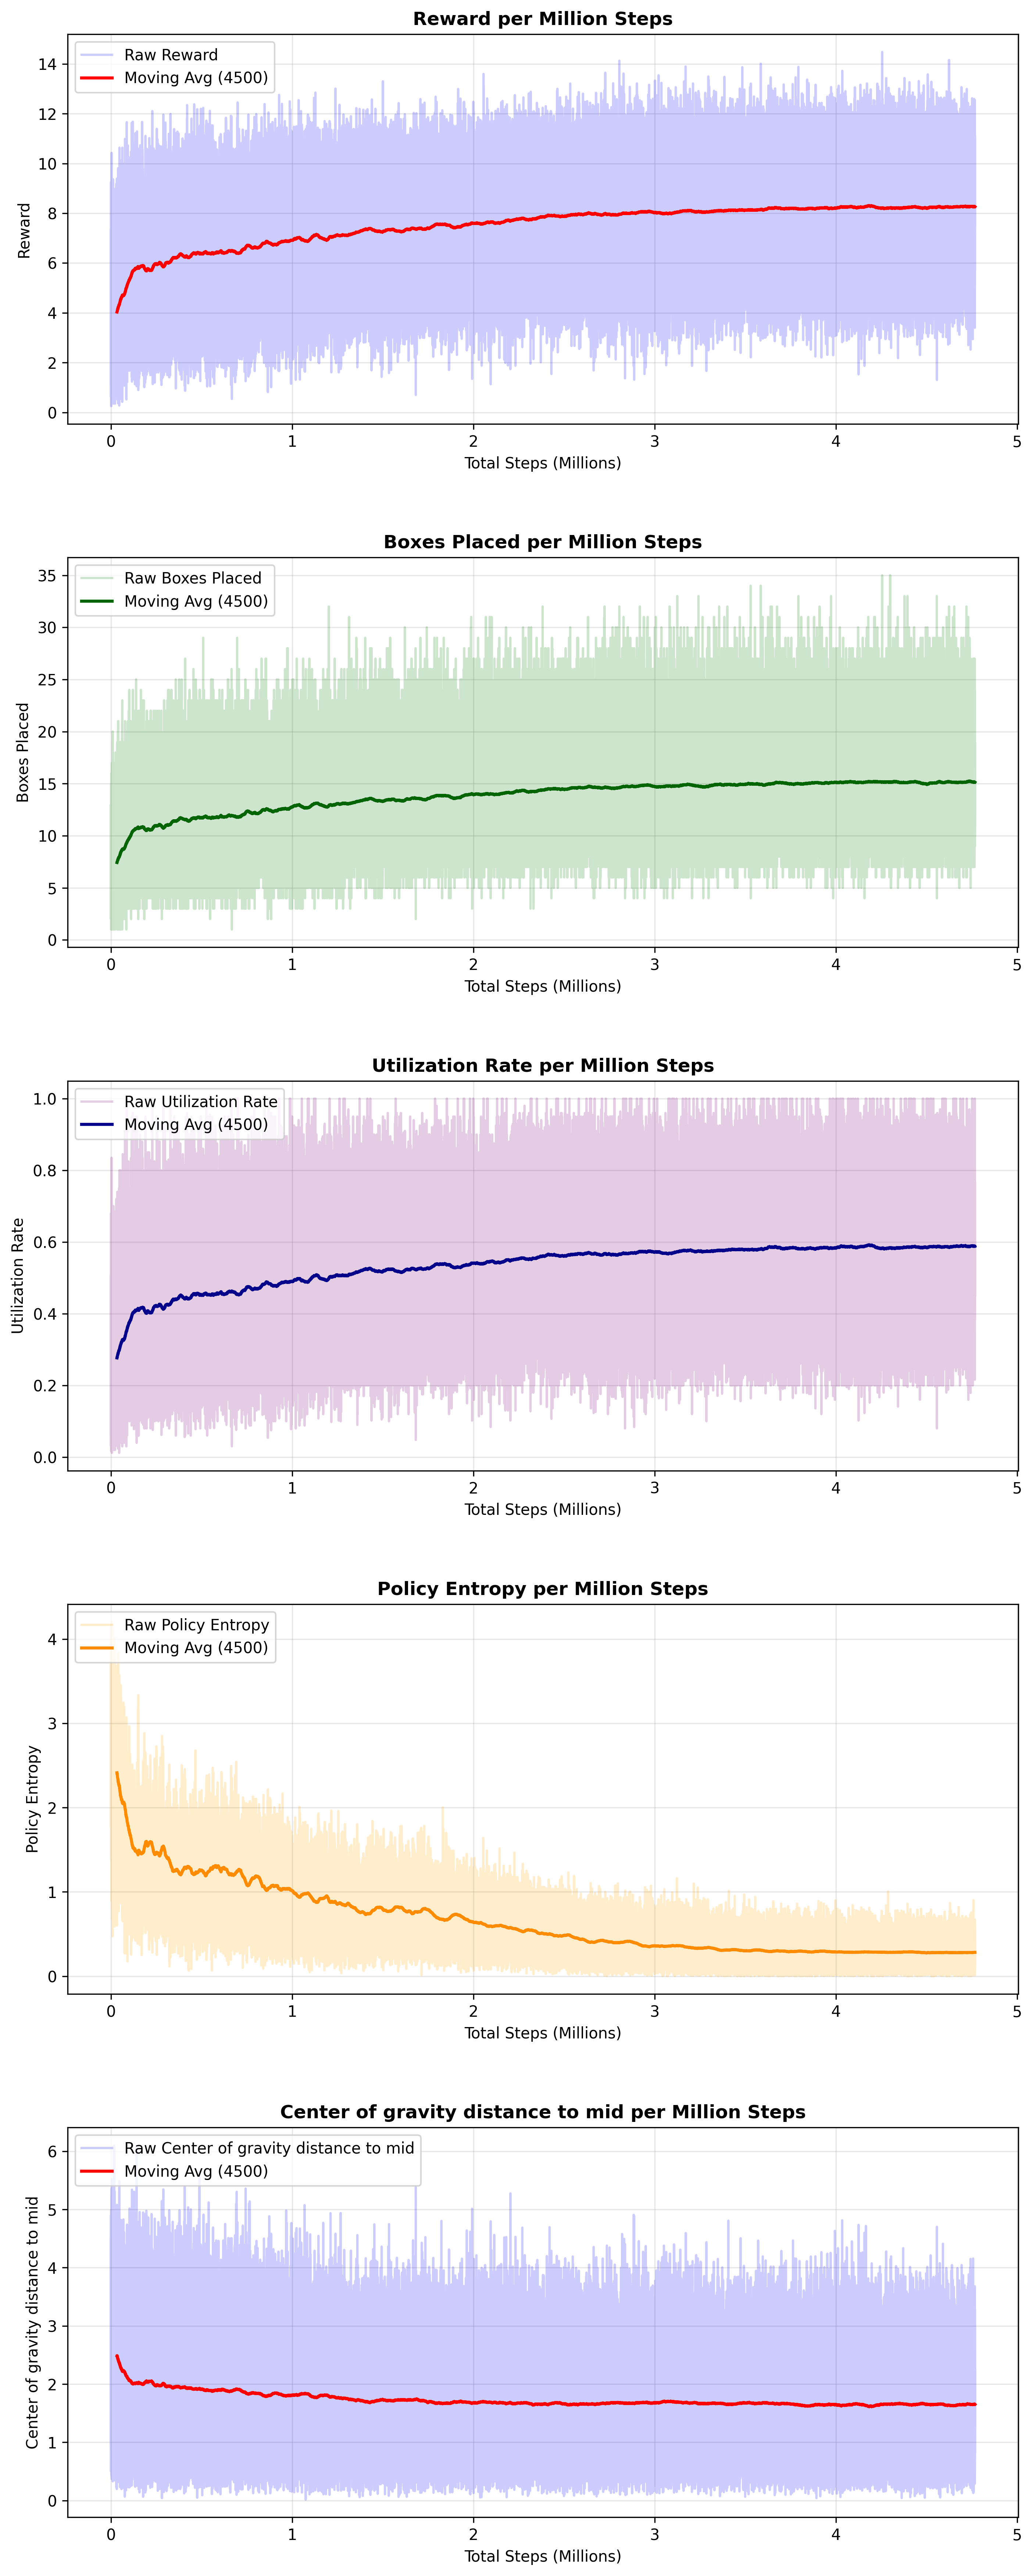
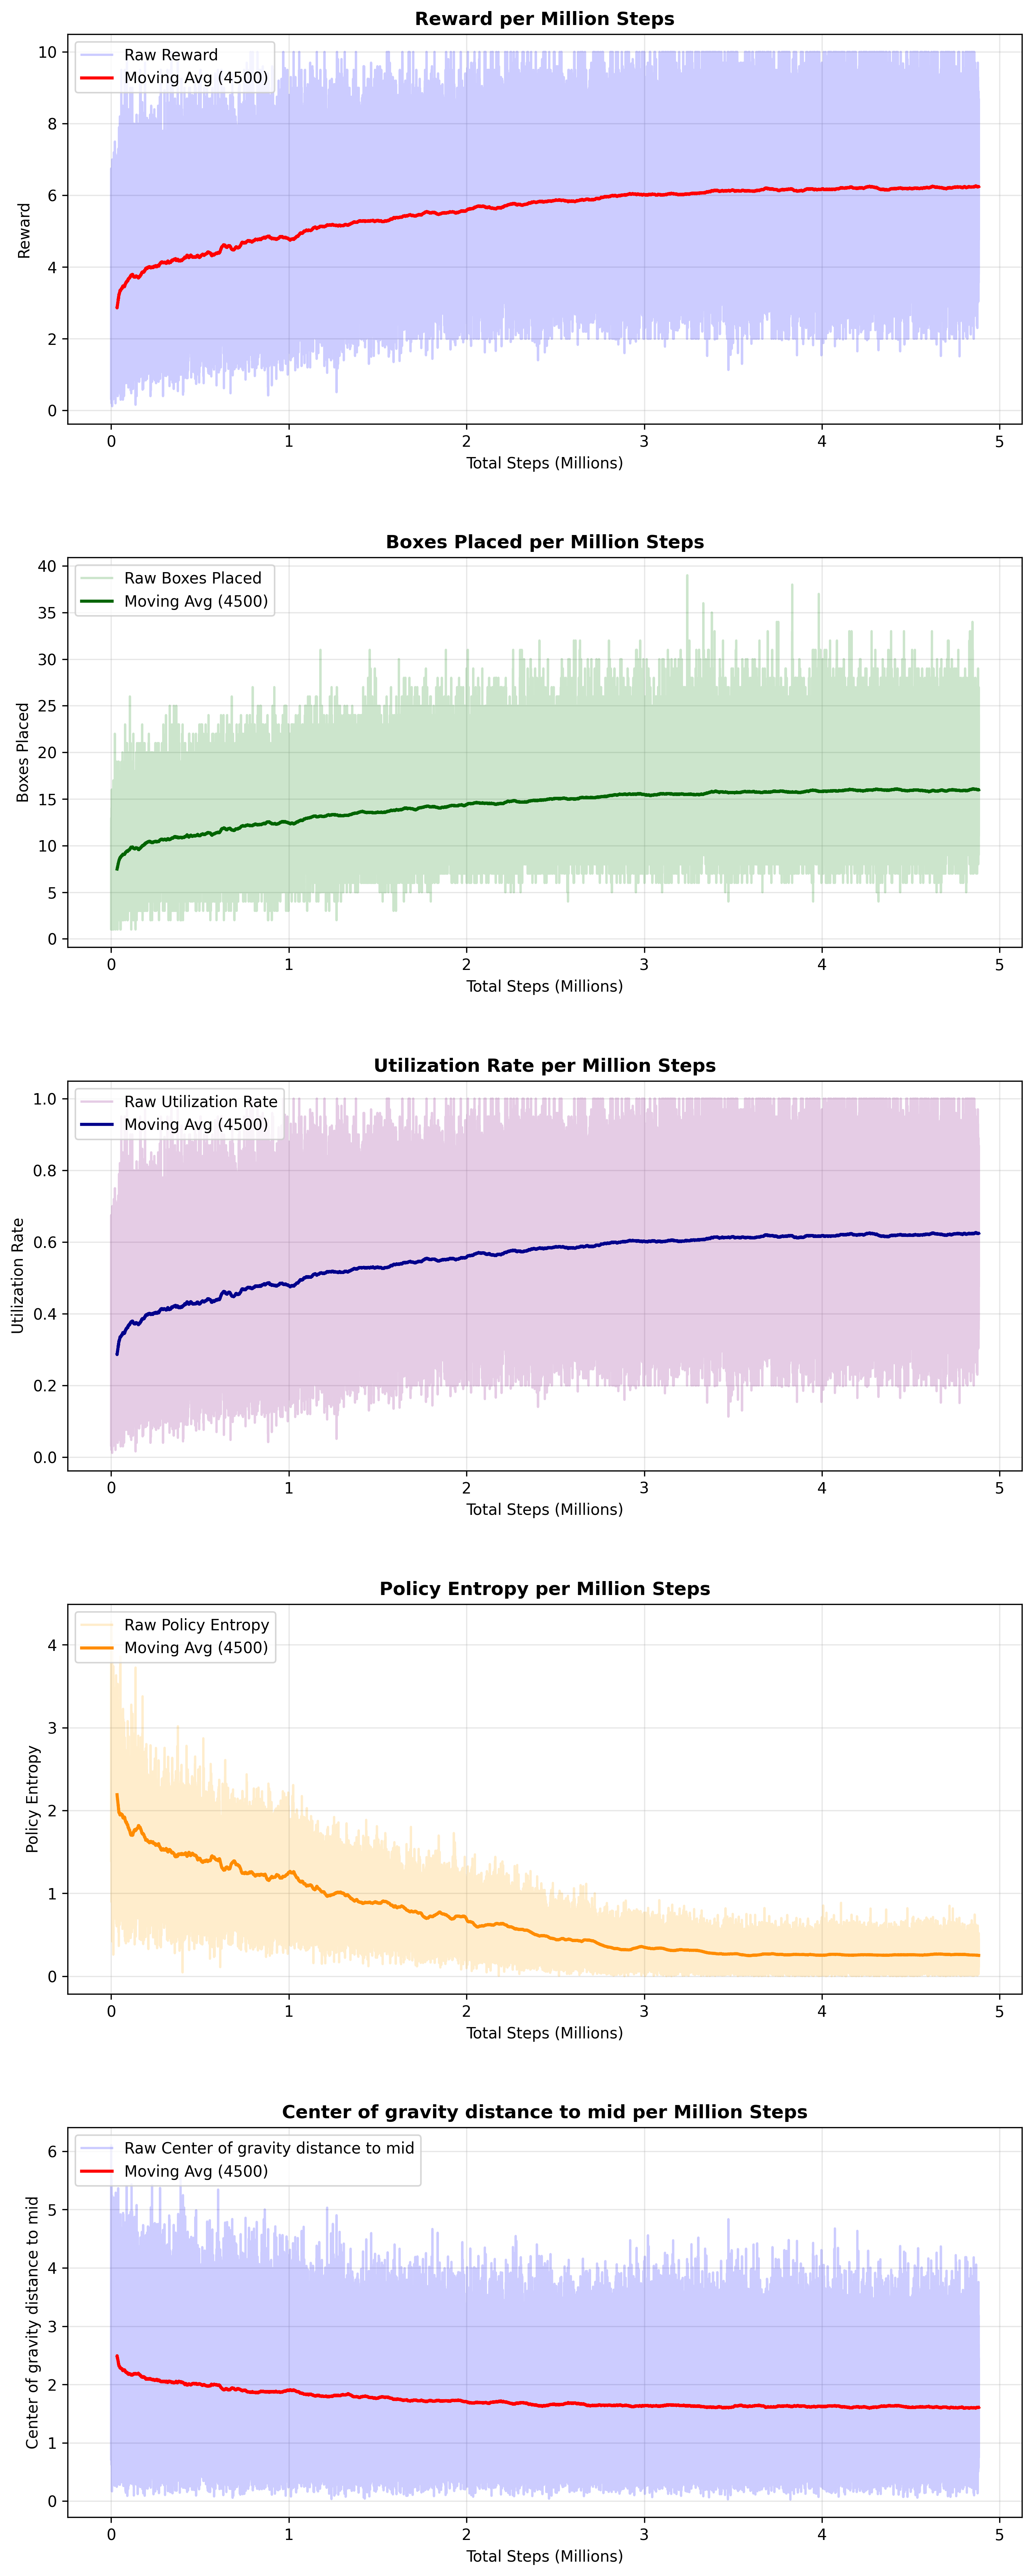
update eta-constrained model

diff --git a/trained_models/test_model.py b/trained_models/test_model.py
@@ -170,7 +170,7 @@ if __name__ == "__main__":
     args = parser.parse_args()
 
     evaluate_model(
-        model_path="trained_models/ours/cog+eta/cog_eta_temporal.pt",
+        model_path="trained_models/ours/eta/eta.pt",
         dataset_path="test_data/cut_1_temporal.pt",
         args=args,
         device="cuda" if torch.cuda.is_available() else "cpu"

diff --git a/README.md b/README.md
@@ -58,9 +58,9 @@ Average Utilization: 69.590%
 Average COG Distance: 1.453
 
 Hard constraints on ETA:
-Average Reward: 6.910
-Average Utilization: 59.106%
-Average COG Distance: 1.638
+Average Reward: 7.227
+Average Utilization: 62.670%
+Average COG Distance: 1.607
 
 Soft constraints on COG plus hard constraints on ETA:
 Average Reward: 6.894